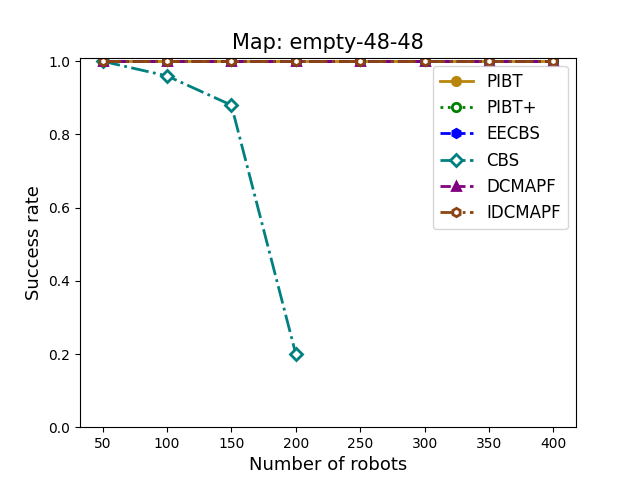
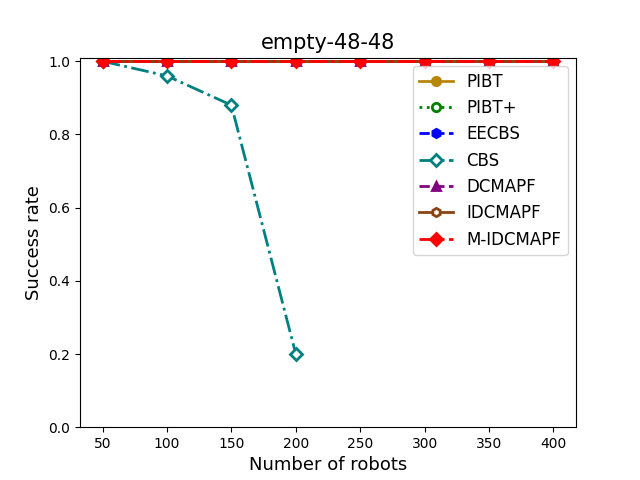
.

Changed region(s): [[0.1562, 0.0625, 0.875, 0.5312]]

diff --git a/Comparison_with_stateoftheart/plot_data.py b/Comparison_with_stateoftheart/plot_data.py
@@ -170,12 +170,12 @@ for i in range(len(map_names)):
     if len(DCMAPF_SOC[i]) != 0:
         plt.plot(densities[i][:len(DCMAPF_SOC[i])], DCMAPF_SOC[i], marker=maker5, linestyle=line_style3, linewidth=2, markersize=marker_size, markeredgewidth=marker_edge_width, label='DCMAPF', color=color_DCMAPF,markerfacecolor=markerfacecolor3)
     if len(IDCMAPF_SOC[i]) != 0:
-        plt.plot(densities[i][:len(IDCMAPF_SOC[i])], IDCMAPF_SOC[i], marker=maker6, linestyle=line_style4, linewidth=2, markersize=marker_size, markeredgewidth=marker_edge_width, label='IDCMAPF', color=color_IDCMAPF,markerfacecolor=markerfacecolor2)
+        plt.plot(densities[i][:len(IDCMAPF_SOC[i])], IDCMAPF_SOC[i], marker=maker6, linestyle=line_style1, linewidth=2, markersize=marker_size, markeredgewidth=marker_edge_width, label='IDCMAPF', color=color_IDCMAPF,markerfacecolor=markerfacecolor2)
     if len(M_IDCMAPF_SOC[i]) != 0:
-        plt.plot(densities[i][:len(M_IDCMAPF_SOC[i])], M_IDCMAPF_SOC[i], marker=maker3, linestyle=line_style4, linewidth=2, markersize=marker_size, markeredgewidth=marker_edge_width, label='M_IDCMAPF', color=color_M_IDCMAPF,markerfacecolor=markerfacecolor3)
+        plt.plot(densities[i][:len(M_IDCMAPF_SOC[i])], M_IDCMAPF_SOC[i], marker=maker3, linestyle=line_style4, linewidth=2, markersize=marker_size, markeredgewidth=marker_edge_width, label='M-IDCMAPF', color=color_M_IDCMAPF,markerfacecolor=markerfacecolor3)
 
 
-    plt.title('Map: ' + map_names[i], fontsize=title_size)
+    plt.title(map_names[i], fontsize=title_size)
     plt.xlabel('Number of robots', fontsize=label_size)
     plt.ylabel('Sum of costs', fontsize=label_size)
     plt.xticks(densities[i][::])
@@ -195,12 +195,12 @@ for i in range(len(map_names)):
     if len(DCMAPF_SR[i]) != 0:
         plt.plot(densities[i][:len(DCMAPF_SR[i])], DCMAPF_SR[i], marker=maker5, linestyle=line_style3, linewidth=2, markersize=marker_size, markeredgewidth=marker_edge_width, label='DCMAPF', color=color_DCMAPF,markerfacecolor=markerfacecolor3)
     if len(IDCMAPF_SR[i]) != 0:
-        plt.plot(densities[i][:len(IDCMAPF_SR[i])], IDCMAPF_SR[i], marker=maker6, linestyle=line_style4, linewidth=2, markersize=marker_size, markeredgewidth=marker_edge_width, label='IDCMAPF', color=color_IDCMAPF,markerfacecolor=markerfacecolor2)
+        plt.plot(densities[i][:len(IDCMAPF_SR[i])], IDCMAPF_SR[i], marker=maker6, linestyle=line_style1, linewidth=2, markersize=marker_size, markeredgewidth=marker_edge_width, label='IDCMAPF', color=color_IDCMAPF,markerfacecolor=markerfacecolor2)
     if len(M_IDCMAPF_SR[i]) != 0:
-        plt.plot(densities[i][:len(M_IDCMAPF_SR[i])], M_IDCMAPF_SR[i], marker=maker3, linestyle=line_style4, linewidth=2, markersize=marker_size, markeredgewidth=marker_edge_width, label='M_IDCMAPF', color=color_M_IDCMAPF,markerfacecolor=markerfacecolor3)
+        plt.plot(densities[i][:len(M_IDCMAPF_SR[i])], M_IDCMAPF_SR[i], marker=maker3, linestyle=line_style4, linewidth=2, markersize=marker_size, markeredgewidth=marker_edge_width, label='M-IDCMAPF', color=color_M_IDCMAPF,markerfacecolor=markerfacecolor3)
 
 
-    plt.title('Map: ' + map_names[i], fontsize=title_size)
+    plt.title(map_names[i], fontsize=title_size)
     plt.xlabel('Number of robots', fontsize=label_size)
     plt.ylabel('Success rate', fontsize=label_size)
     plt.xticks(densities[i][::])
